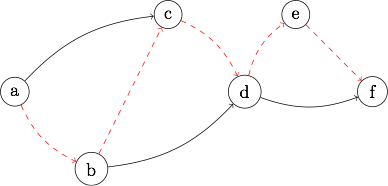
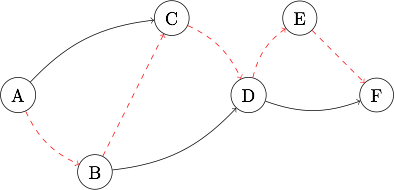
updated site

diff --git a/algorithms/path.html b/algorithms/path.html
@@ -12,17 +12,8 @@ given a weighted directed graph and source vertex.</li>
 
 <h3 id="bellman-ford">Bellman-Ford</h3>
 
-<p>The path state is represented as a case class, holding <em>distances</em> and <em>predecessors</em>.</p>
-<div class="language-scala highlighter-rouge"><pre class="highlight"><code>  <span class="k">case</span> <span class="k">class</span> <span class="nc">PathState</span><span class="o">[</span><span class="kt">A</span><span class="o">](</span><span class="n">distances</span><span class="k">:</span> <span class="kt">Map</span><span class="o">[</span><span class="kt">A</span>,<span class="kt">Double</span><span class="o">],</span> <span class="n">predecessors</span><span class="k">:</span> <span class="kt">Map</span><span class="o">[</span><span class="kt">A</span>,<span class="kt">A</span><span class="o">])</span>
+<p>The path state is a case class of the <em>distances</em> and <em>predecessors</em>.</p>
 
-  <span class="k">object</span> <span class="nc">PathState</span> <span class="o">{</span>
-    <span class="k">def</span> <span class="n">apply</span><span class="o">[</span><span class="kt">A</span><span class="o">](</span><span class="n">source</span><span class="k">:</span> <span class="kt">A</span><span class="o">)</span><span class="k">:</span> <span class="kt">PathState</span><span class="o">[</span><span class="kt">A</span><span class="o">]</span> <span class="k">=</span>
-      <span class="nc">PathState</span><span class="o">(</span><span class="nc">Map</span><span class="o">.</span><span class="n">empty</span><span class="o">[</span><span class="kt">A</span>,<span class="kt">Double</span><span class="o">].</span><span class="n">updated</span><span class="o">(</span><span class="n">source</span><span class="o">,</span><span class="mf">0.0</span><span class="o">),</span><span class="nc">Map</span><span class="o">.</span><span class="n">empty</span><span class="o">[</span><span class="kt">A</span>,<span class="kt">A</span><span class="o">])</span>
-  <span class="o">}</span>
-</code></pre>
-</div>
-<p>The algorithm is implemented (with <em>N</em> iterations). <em>note</em> I think almost all 
-use cases would allow us to stop once</p>
 <div class="language-scala highlighter-rouge"><pre class="highlight"><code>  <span class="k">def</span> <span class="n">bellmanFord</span><span class="o">[</span><span class="kt">A</span><span class="o">](</span><span class="n">g</span><span class="k">:</span> <span class="kt">WeightedDigraph</span><span class="o">[</span><span class="kt">A</span><span class="o">],</span> <span class="n">source</span><span class="k">:</span> <span class="kt">A</span><span class="o">)</span><span class="k">:</span> <span class="kt">PathState</span><span class="o">[</span><span class="kt">A</span><span class="o">]</span> <span class="k">=</span> <span class="o">{</span>
 
     <span class="k">def</span> <span class="n">relaxEdge</span><span class="o">(</span><span class="n">state</span><span class="k">:</span> <span class="kt">PathState</span><span class="o">[</span><span class="kt">A</span><span class="o">],</span> <span class="n">e</span><span class="k">:</span> <span class="kt">WeightedEdge</span><span class="o">[</span><span class="kt">A</span><span class="o">])</span><span class="k">:</span> <span class="kt">PathState</span><span class="o">[</span><span class="kt">A</span><span class="o">]</span> <span class="k">=</span>
@@ -91,7 +82,7 @@ use cases would allow us to stop once</p>
 <span class="n">xs</span><span class="k">:</span> <span class="kt">scala.collection.immutable.Stream</span><span class="o">[</span><span class="kt">tiki.WeightedEdge</span><span class="o">[</span><span class="kt">Char</span><span class="o">]]</span> <span class="k">=</span> <span class="nc">Stream</span><span class="o">(</span><span class="n">a</span> <span class="o">--&gt;</span> <span class="n">b</span> <span class="o">:#</span> <span class="o">-</span><span class="mf">1.0</span><span class="o">,</span> <span class="o">?)</span>
 
 <span class="n">scala</span><span class="o">&gt;</span> <span class="k">val</span> <span class="n">adjacencyList</span> <span class="k">=</span> <span class="nc">AdjacencyList</span><span class="o">(</span><span class="n">xs</span><span class="o">)</span>
-<span class="n">adjacencyList</span><span class="k">:</span> <span class="kt">tiki.AdjacencyList</span><span class="o">[</span><span class="kt">Char</span><span class="o">]</span> <span class="k">=</span> <span class="n">tiki</span><span class="o">.</span><span class="nc">AdjacencyList</span><span class="k">@</span><span class="mf">40d</span><span class="n">fcecd</span>
+<span class="n">adjacencyList</span><span class="k">:</span> <span class="kt">tiki.AdjacencyList</span><span class="o">[</span><span class="kt">Char</span><span class="o">]</span> <span class="k">=</span> <span class="n">tiki</span><span class="o">.</span><span class="nc">AdjacencyList</span><span class="k">@</span><span class="mi">2422</span><span class="n">b4da</span>
 
 <span class="n">scala</span><span class="o">&gt;</span> <span class="k">val</span> <span class="n">digraph</span> <span class="k">=</span> <span class="k">new</span> <span class="nc">WeightedDigraph</span><span class="o">[</span><span class="kt">Char</span><span class="o">]</span> <span class="o">{</span>
      <span class="o">|</span>   <span class="cm">/* Use adjacency list for basic digraph implementation. */</span>
@@ -102,7 +93,7 @@ use cases would allow us to stop once</p>
      <span class="o">|</span>   <span class="cm">/* adjacency doesn't store edges. */</span>
      <span class="o">|</span>   <span class="k">def</span> <span class="n">edges</span> <span class="k">=</span> <span class="n">xs</span>
      <span class="o">|</span> <span class="o">}</span>
-<span class="n">digraph</span><span class="k">:</span> <span class="kt">tiki.WeightedDigraph</span><span class="o">[</span><span class="kt">tiki.Predef.Char</span><span class="o">]</span> <span class="k">=</span> <span class="nc">$anon$1</span><span class="k">@</span><span class="mf">248f</span><span class="n">e195</span>
+<span class="n">digraph</span><span class="k">:</span> <span class="kt">tiki.WeightedDigraph</span><span class="o">[</span><span class="kt">tiki.Predef.Char</span><span class="o">]</span> <span class="k">=</span> <span class="nc">$anon$1</span><span class="k">@</span><span class="mi">5</span><span class="n">badd49a</span>
 
 <span class="n">scala</span><span class="o">&gt;</span> <span class="k">val</span> <span class="n">cycle</span> <span class="k">=</span> <span class="n">negativeCycle</span><span class="o">(</span><span class="n">digraph</span><span class="o">,</span><span class="sc">'a'</span><span class="o">)</span>
 <span class="n">cycle</span><span class="k">:</span> <span class="kt">tiki.Predef.Option</span><span class="o">[</span><span class="kt">tiki.Predef.List</span><span class="o">[</span><span class="kt">Char</span><span class="o">]]</span> <span class="k">=</span> <span class="nc">Some</span><span class="o">(</span><span class="nc">List</span><span class="o">(</span><span class="n">e</span><span class="o">,</span> <span class="n">d</span><span class="o">,</span> <span class="n">b</span><span class="o">))</span>
@@ -175,7 +166,7 @@ of the least possible weight that connects any two trees in the forest.
      <span class="o">|</span>   <span class="k">override</span> <span class="k">def</span> <span class="n">edges</span><span class="k">:</span> <span class="kt">Stream</span><span class="o">[</span><span class="kt">WeightedEdge</span><span class="o">[</span><span class="kt">Char</span><span class="o">]]</span> <span class="k">=</span> <span class="n">xs</span>
      <span class="o">|</span>   <span class="k">override</span> <span class="k">def</span> <span class="n">vertices</span><span class="k">:</span> <span class="kt">Stream</span><span class="o">[</span><span class="kt">Char</span><span class="o">]</span> <span class="k">=</span> <span class="nc">Stream</span><span class="o">(</span><span class="sc">'a'</span><span class="o">,</span> <span class="sc">'b'</span><span class="o">,</span> <span class="sc">'c'</span><span class="o">,</span> <span class="sc">'d'</span><span class="o">,</span> <span class="sc">'e'</span><span class="o">,</span> <span class="sc">'f'</span><span class="o">,</span> <span class="sc">'g'</span><span class="o">)</span>
      <span class="o">|</span> <span class="o">}</span>
-<span class="n">graph</span><span class="k">:</span> <span class="kt">tiki.WeightedUndirectedGraph</span><span class="o">[</span><span class="kt">tiki.Predef.Char</span><span class="o">]</span> <span class="k">=</span> <span class="nc">$anon$1</span><span class="k">@</span><span class="mi">4</span><span class="n">e1f4f3c</span>
+<span class="n">graph</span><span class="k">:</span> <span class="kt">tiki.WeightedUndirectedGraph</span><span class="o">[</span><span class="kt">tiki.Predef.Char</span><span class="o">]</span> <span class="k">=</span> <span class="nc">$anon$1</span><span class="k">@</span><span class="mi">4684305</span><span class="n">c</span>
 
 <span class="n">scala</span><span class="o">&gt;</span> <span class="k">val</span> <span class="n">expected</span> <span class="k">=</span> <span class="nc">Set</span><span class="o">(</span>
      <span class="o">|</span>   <span class="sc">'a'</span> <span class="o">--&gt;</span> <span class="sc">'d'</span> <span class="o">:#</span> <span class="mf">5.0</span><span class="o">,</span>

diff --git a/datastructures/disjointset.html b/datastructures/disjointset.html
@@ -23,7 +23,7 @@ are used to determine if two elements belong to the same partition.</li>
 <span class="k">import</span> <span class="nn">tiki.Predef._</span>
 
 <span class="n">scala</span><span class="o">&gt;</span> <span class="k">val</span> <span class="n">disjoint</span> <span class="k">=</span> <span class="nc">DisjointSet</span><span class="o">(</span><span class="nc">Set</span><span class="o">[</span><span class="kt">Int</span><span class="o">](</span><span class="mi">1</span><span class="o">,</span><span class="mi">2</span><span class="o">))</span>
-<span class="n">disjoint</span><span class="k">:</span> <span class="kt">tiki.DisjointSet</span><span class="o">[</span><span class="kt">tiki.Predef.Int</span><span class="o">]</span> <span class="k">=</span> <span class="n">tiki</span><span class="o">.</span><span class="nc">DisjointSet</span><span class="k">@</span><span class="mi">4446</span><span class="n">abd7</span>
+<span class="n">disjoint</span><span class="k">:</span> <span class="kt">tiki.DisjointSet</span><span class="o">[</span><span class="kt">tiki.Predef.Int</span><span class="o">]</span> <span class="k">=</span> <span class="n">tiki</span><span class="o">.</span><span class="nc">DisjointSet</span><span class="k">@</span><span class="mi">798663</span><span class="n">e4</span>
 </code></pre>
 </div>
 
@@ -38,7 +38,7 @@ are used to determine if two elements belong to the same partition.</li>
 <span class="k">import</span> <span class="nn">tiki.Predef._</span>
 
 <span class="n">scala</span><span class="o">&gt;</span> <span class="k">val</span> <span class="n">disjoint</span> <span class="k">=</span> <span class="nc">DisjointSet</span><span class="o">(</span><span class="nc">Set</span><span class="o">[</span><span class="kt">Int</span><span class="o">](</span><span class="mi">1</span><span class="o">,</span><span class="mi">2</span><span class="o">))</span>
-<span class="n">disjoint</span><span class="k">:</span> <span class="kt">tiki.DisjointSet</span><span class="o">[</span><span class="kt">tiki.Predef.Int</span><span class="o">]</span> <span class="k">=</span> <span class="n">tiki</span><span class="o">.</span><span class="nc">DisjointSet</span><span class="k">@</span><span class="mf">501d</span><span class="mi">9394</span>
+<span class="n">disjoint</span><span class="k">:</span> <span class="kt">tiki.DisjointSet</span><span class="o">[</span><span class="kt">tiki.Predef.Int</span><span class="o">]</span> <span class="k">=</span> <span class="n">tiki</span><span class="o">.</span><span class="nc">DisjointSet</span><span class="k">@</span><span class="mi">5</span><span class="n">c2bca09</span>
 
 <span class="n">scala</span><span class="o">&gt;</span> <span class="n">disjoint</span><span class="o">.</span><span class="n">find</span><span class="o">(</span><span class="mi">1</span><span class="o">)</span>
 <span class="n">res0</span><span class="k">:</span> <span class="kt">tiki.Predef.Option</span><span class="o">[</span><span class="kt">tiki.Predef.Int</span><span class="o">]</span> <span class="k">=</span> <span class="nc">Some</span><span class="o">(</span><span class="mi">1</span><span class="o">)</span>
@@ -56,10 +56,10 @@ are used to determine if two elements belong to the same partition.</li>
 <span class="k">import</span> <span class="nn">tiki.Predef._</span>
 
 <span class="n">scala</span><span class="o">&gt;</span> <span class="k">val</span> <span class="n">disjoint</span> <span class="k">=</span> <span class="nc">DisjointSet</span><span class="o">(</span><span class="nc">Set</span><span class="o">[</span><span class="kt">Int</span><span class="o">](</span><span class="mi">1</span><span class="o">,</span><span class="mi">2</span><span class="o">))</span>
-<span class="n">disjoint</span><span class="k">:</span> <span class="kt">tiki.DisjointSet</span><span class="o">[</span><span class="kt">tiki.Predef.Int</span><span class="o">]</span> <span class="k">=</span> <span class="n">tiki</span><span class="o">.</span><span class="nc">DisjointSet</span><span class="k">@</span><span class="mi">5</span><span class="n">bc777ea</span>
+<span class="n">disjoint</span><span class="k">:</span> <span class="kt">tiki.DisjointSet</span><span class="o">[</span><span class="kt">tiki.Predef.Int</span><span class="o">]</span> <span class="k">=</span> <span class="n">tiki</span><span class="o">.</span><span class="nc">DisjointSet</span><span class="k">@</span><span class="mf">3d</span><span class="mi">331246</span>
 
 <span class="n">scala</span><span class="o">&gt;</span> <span class="n">disjoint</span><span class="o">.</span><span class="n">union</span><span class="o">(</span><span class="mi">1</span><span class="o">,</span><span class="mi">2</span><span class="o">)</span>
-<span class="n">res1</span><span class="k">:</span> <span class="kt">tiki.Predef.Option</span><span class="o">[</span><span class="kt">tiki.DisjointSet</span><span class="o">[</span><span class="kt">tiki.Predef.Int</span><span class="o">]]</span> <span class="k">=</span> <span class="nc">Some</span><span class="o">(</span><span class="n">tiki</span><span class="o">.</span><span class="nc">DisjointSet</span><span class="k">@</span><span class="mi">41</span><span class="n">ef8350</span><span class="o">)</span>
+<span class="n">res1</span><span class="k">:</span> <span class="kt">tiki.Predef.Option</span><span class="o">[</span><span class="kt">tiki.DisjointSet</span><span class="o">[</span><span class="kt">tiki.Predef.Int</span><span class="o">]]</span> <span class="k">=</span> <span class="nc">Some</span><span class="o">(</span><span class="n">tiki</span><span class="o">.</span><span class="nc">DisjointSet</span><span class="k">@</span><span class="mi">5</span><span class="n">ba6adbb</span><span class="o">)</span>
 </code></pre>
 </div>
 </section></div></div></div></div><script src="https://cdnjs.cloudflare.com/ajax/libs/jquery/1.11.3/jquery.min.js"></script><script src="https://cdnjs.cloudflare.com/ajax/libs/twitter-bootstrap/3.3.7/js/bootstrap.min.js"></script><script src="/tiki/highlight/highlight.pack.js"></script><script>hljs.configure({

diff --git a/algorithms/sort.html b/algorithms/sort.html
@@ -63,7 +63,7 @@ no cycles. That is, we have a directed acyclic graph.</p>
 <span class="n">xs</span><span class="k">:</span> <span class="kt">scala.collection.immutable.Stream</span><span class="o">[</span><span class="kt">tiki.Edge</span><span class="o">[</span><span class="kt">Char</span><span class="o">]]</span> <span class="k">=</span> <span class="nc">Stream</span><span class="o">(</span><span class="n">a</span> <span class="o">--&gt;</span> <span class="n">b</span><span class="o">,</span> <span class="o">?)</span>
 
 <span class="n">scala</span><span class="o">&gt;</span> <span class="k">val</span> <span class="n">adjacencyList</span> <span class="k">=</span> <span class="nc">AdjacencyList</span><span class="o">(</span><span class="n">xs</span><span class="o">)</span>
-<span class="n">adjacencyList</span><span class="k">:</span> <span class="kt">tiki.AdjacencyList</span><span class="o">[</span><span class="kt">Char</span><span class="o">]</span> <span class="k">=</span> <span class="n">tiki</span><span class="o">.</span><span class="nc">AdjacencyList</span><span class="k">@</span><span class="mf">296583f</span><span class="n">e</span>
+<span class="n">adjacencyList</span><span class="k">:</span> <span class="kt">tiki.AdjacencyList</span><span class="o">[</span><span class="kt">Char</span><span class="o">]</span> <span class="k">=</span> <span class="n">tiki</span><span class="o">.</span><span class="nc">AdjacencyList</span><span class="k">@</span><span class="mf">77749f</span><span class="mi">5</span><span class="n">c</span>
 
 <span class="n">scala</span><span class="o">&gt;</span> <span class="k">val</span> <span class="n">digraph</span> <span class="k">=</span> <span class="k">new</span> <span class="nc">Digraph</span><span class="o">[</span><span class="kt">Char</span><span class="o">]</span> <span class="o">{</span>
      <span class="o">|</span>   <span class="k">def</span> <span class="n">contains</span><span class="o">(</span><span class="n">v</span><span class="k">:</span> <span class="kt">Char</span><span class="o">)</span> <span class="k">=</span> <span class="n">adjacencyList</span><span class="o">.</span><span class="n">contains</span><span class="o">(</span><span class="n">v</span><span class="o">)</span>
@@ -72,7 +72,7 @@ no cycles. That is, we have a directed acyclic graph.</p>
      <span class="o">|</span>   <span class="k">def</span> <span class="n">predecessors</span><span class="o">(</span><span class="n">v</span><span class="k">:</span> <span class="kt">Char</span><span class="o">)</span> <span class="k">=</span> <span class="n">adjacencyList</span><span class="o">.</span><span class="n">predecessors</span><span class="o">(</span><span class="n">v</span><span class="o">)</span>
      <span class="o">|</span>   <span class="k">def</span> <span class="n">edges</span><span class="k">:</span> <span class="kt">Stream</span><span class="o">[</span><span class="kt">Edge</span><span class="o">[</span><span class="kt">Char</span><span class="o">]]</span> <span class="k">=</span> <span class="n">xs</span>
      <span class="o">|</span> <span class="o">}</span>
-<span class="n">digraph</span><span class="k">:</span> <span class="kt">tiki.Digraph</span><span class="o">[</span><span class="kt">tiki.Predef.Char</span><span class="o">]{</span><span class="k">def</span> <span class="n">edges</span><span class="k">:</span> <span class="kt">tiki.Predef.Stream</span><span class="o">[</span><span class="kt">tiki.Edge</span><span class="o">[</span><span class="kt">tiki.Predef.Char</span><span class="o">]]}</span> <span class="k">=</span> <span class="nc">$anon$1</span><span class="k">@</span><span class="mf">72f</span><span class="n">f3d89</span>
+<span class="n">digraph</span><span class="k">:</span> <span class="kt">tiki.Digraph</span><span class="o">[</span><span class="kt">tiki.Predef.Char</span><span class="o">]{</span><span class="k">def</span> <span class="n">edges</span><span class="k">:</span> <span class="kt">tiki.Predef.Stream</span><span class="o">[</span><span class="kt">tiki.Edge</span><span class="o">[</span><span class="kt">tiki.Predef.Char</span><span class="o">]]}</span> <span class="k">=</span> <span class="nc">$anon$1</span><span class="k">@</span><span class="mi">5</span><span class="n">a96fb1b</span>
 
 <span class="n">scala</span><span class="o">&gt;</span> <span class="k">val</span> <span class="n">sorted</span> <span class="k">=</span> <span class="n">tsort</span><span class="o">(</span><span class="n">digraph</span><span class="o">).</span><span class="n">getOrElse</span><span class="o">(</span><span class="nc">Stream</span><span class="o">.</span><span class="n">empty</span><span class="o">)</span>
 <span class="n">sorted</span><span class="k">:</span> <span class="kt">tiki.Predef.Stream</span><span class="o">[</span><span class="kt">tiki.Predef.Char</span><span class="o">]</span> <span class="k">=</span> <span class="nc">Stream</span><span class="o">(</span><span class="n">a</span><span class="o">,</span> <span class="o">?)</span>

diff --git a/datastructures/adjacencylist.html b/datastructures/adjacencylist.html
@@ -3,6 +3,8 @@
 <p><code class="highlighter-rouge">AdjacencyList</code> associates each vertex in the graph with the collection of its neighboring vertices.
 Internally this is represented as a pair of maps (the graph and its reverse).</p>
 
+<p><img src="https://raw.github.com/lewismj/tiki/master/docs/src/main/resources/microsite/img/adjacencyList.png" alt="graph" /></p>
+
 <p>The functions provided are:</p>
 
 <ul>
@@ -28,7 +30,7 @@ Internally this is represented as a pair of maps (the graph and its reverse).</p
 <span class="k">import</span> <span class="nn">tiki.implicits._</span>
 
 <span class="n">scala</span><span class="o">&gt;</span> <span class="k">val</span> <span class="n">xs</span> <span class="k">=</span> <span class="nc">AdjacencyList</span><span class="o">(</span><span class="nc">Stream</span><span class="o">(</span><span class="mi">1</span> <span class="o">--&gt;</span> <span class="mi">2</span><span class="o">,</span> <span class="mi">1</span> <span class="o">--&gt;</span> <span class="mi">3</span><span class="o">,</span> <span class="mi">2</span> <span class="o">--&gt;</span> <span class="mi">3</span><span class="o">))</span>
-<span class="n">xs</span><span class="k">:</span> <span class="kt">tiki.AdjacencyList</span><span class="o">[</span><span class="kt">Int</span><span class="o">]</span> <span class="k">=</span> <span class="n">tiki</span><span class="o">.</span><span class="nc">AdjacencyList</span><span class="k">@</span><span class="mf">2294558d</span>
+<span class="n">xs</span><span class="k">:</span> <span class="kt">tiki.AdjacencyList</span><span class="o">[</span><span class="kt">Int</span><span class="o">]</span> <span class="k">=</span> <span class="n">tiki</span><span class="o">.</span><span class="nc">AdjacencyList</span><span class="k">@</span><span class="mi">664</span><span class="n">cee9e</span>
 
 <span class="n">scala</span><span class="o">&gt;</span> <span class="k">val</span> <span class="n">ys</span> <span class="k">=</span> <span class="n">xs</span><span class="o">.</span><span class="n">successors</span><span class="o">(</span><span class="mi">1</span><span class="o">)</span>
 <span class="n">ys</span><span class="k">:</span> <span class="kt">tiki.Predef.Set</span><span class="o">[</span><span class="kt">Int</span><span class="o">]</span> <span class="k">=</span> <span class="nc">Set</span><span class="o">(</span><span class="mi">2</span><span class="o">,</span> <span class="mi">3</span><span class="o">)</span>
@@ -47,7 +49,7 @@ Internally this is represented as a pair of maps (the graph and its reverse).</p
 <span class="k">import</span> <span class="nn">tiki.implicits._</span>
 
 <span class="n">scala</span><span class="o">&gt;</span> <span class="k">val</span> <span class="n">xs</span> <span class="k">=</span> <span class="nc">AdjacencyList</span><span class="o">(</span><span class="nc">Stream</span><span class="o">(</span><span class="mi">1</span> <span class="o">--&gt;</span> <span class="mi">2</span><span class="o">,</span> <span class="mi">1</span> <span class="o">--&gt;</span> <span class="mi">3</span><span class="o">,</span> <span class="mi">2</span> <span class="o">--&gt;</span> <span class="mi">3</span><span class="o">))</span>
-<span class="n">xs</span><span class="k">:</span> <span class="kt">tiki.AdjacencyList</span><span class="o">[</span><span class="kt">Int</span><span class="o">]</span> <span class="k">=</span> <span class="n">tiki</span><span class="o">.</span><span class="nc">AdjacencyList</span><span class="k">@</span><span class="mf">14f4d</span><span class="mi">6</span><span class="n">e5</span>
+<span class="n">xs</span><span class="k">:</span> <span class="kt">tiki.AdjacencyList</span><span class="o">[</span><span class="kt">Int</span><span class="o">]</span> <span class="k">=</span> <span class="n">tiki</span><span class="o">.</span><span class="nc">AdjacencyList</span><span class="k">@</span><span class="mf">49d7d</span><span class="mi">55</span>
 
 <span class="n">scala</span><span class="o">&gt;</span> <span class="k">val</span> <span class="n">ys</span> <span class="k">=</span> <span class="n">xs</span><span class="o">.</span><span class="n">predecessors</span><span class="o">(</span><span class="mi">3</span><span class="o">)</span>
 <span class="n">ys</span><span class="k">:</span> <span class="kt">tiki.Predef.Set</span><span class="o">[</span><span class="kt">Int</span><span class="o">]</span> <span class="k">=</span> <span class="nc">Set</span><span class="o">(</span><span class="mi">1</span><span class="o">,</span> <span class="mi">2</span><span class="o">)</span>

diff --git a/algorithms/traversal.html b/algorithms/traversal.html
@@ -73,7 +73,7 @@ A vertex may be visited more than once in a traversal, most of the time we want 
 <span class="n">edges</span><span class="k">:</span> <span class="kt">scala.collection.immutable.Stream</span><span class="o">[</span><span class="kt">tiki.Edge</span><span class="o">[</span><span class="kt">Char</span><span class="o">]]</span> <span class="k">=</span> <span class="nc">Stream</span><span class="o">(</span><span class="n">a</span> <span class="o">--&gt;</span> <span class="n">b</span><span class="o">,</span> <span class="o">?)</span>
 
 <span class="n">scala</span><span class="o">&gt;</span> <span class="k">val</span> <span class="n">adj</span> <span class="k">=</span> <span class="nc">AdjacencyList</span><span class="o">(</span><span class="n">edges</span><span class="o">)</span>
-<span class="n">adj</span><span class="k">:</span> <span class="kt">tiki.AdjacencyList</span><span class="o">[</span><span class="kt">Char</span><span class="o">]</span> <span class="k">=</span> <span class="n">tiki</span><span class="o">.</span><span class="nc">AdjacencyList</span><span class="k">@</span><span class="mi">52493</span><span class="n">b83</span>
+<span class="n">adj</span><span class="k">:</span> <span class="kt">tiki.AdjacencyList</span><span class="o">[</span><span class="kt">Char</span><span class="o">]</span> <span class="k">=</span> <span class="n">tiki</span><span class="o">.</span><span class="nc">AdjacencyList</span><span class="k">@</span><span class="mf">4097d</span><span class="mi">02</span><span class="n">a</span>
 
 <span class="n">scala</span><span class="o">&gt;</span> <span class="k">val</span> <span class="n">dfsSearch</span> <span class="k">=</span> <span class="n">dfs</span><span class="o">(</span><span class="n">adj</span><span class="o">,</span> <span class="sc">'a'</span><span class="o">)</span>
 <span class="n">dfsSearch</span><span class="k">:</span> <span class="kt">tiki.Predef.Stream</span><span class="o">[</span><span class="kt">Char</span><span class="o">]</span> <span class="k">=</span> <span class="nc">Stream</span><span class="o">(</span><span class="n">a</span><span class="o">,</span> <span class="o">?)</span>
@@ -106,7 +106,7 @@ A vertex may be visited more than once in a traversal, most of the time we want 
 <span class="n">edges</span><span class="k">:</span> <span class="kt">scala.collection.immutable.Stream</span><span class="o">[</span><span class="kt">tiki.Edge</span><span class="o">[</span><span class="kt">Char</span><span class="o">]]</span> <span class="k">=</span> <span class="nc">Stream</span><span class="o">(</span><span class="n">a</span> <span class="o">--&gt;</span> <span class="n">b</span><span class="o">,</span> <span class="o">?)</span>
 
 <span class="n">scala</span><span class="o">&gt;</span> <span class="k">val</span> <span class="n">adj</span> <span class="k">=</span> <span class="nc">AdjacencyList</span><span class="o">(</span><span class="n">edges</span><span class="o">)</span>
-<span class="n">adj</span><span class="k">:</span> <span class="kt">tiki.AdjacencyList</span><span class="o">[</span><span class="kt">Char</span><span class="o">]</span> <span class="k">=</span> <span class="n">tiki</span><span class="o">.</span><span class="nc">AdjacencyList</span><span class="k">@</span><span class="mi">5601</span><span class="n">ab90</span>
+<span class="n">adj</span><span class="k">:</span> <span class="kt">tiki.AdjacencyList</span><span class="o">[</span><span class="kt">Char</span><span class="o">]</span> <span class="k">=</span> <span class="n">tiki</span><span class="o">.</span><span class="nc">AdjacencyList</span><span class="k">@</span><span class="mi">2</span><span class="n">efa1887</span>
 
 <span class="n">scala</span><span class="o">&gt;</span> <span class="k">val</span> <span class="n">bfsSearch</span> <span class="k">=</span> <span class="n">bfs</span><span class="o">(</span><span class="n">adj</span><span class="o">,</span> <span class="sc">'a'</span><span class="o">)</span>
 <span class="n">bfsSearch</span><span class="k">:</span> <span class="kt">tiki.Predef.Stream</span><span class="o">[</span><span class="kt">Char</span><span class="o">]</span> <span class="k">=</span> <span class="nc">Stream</span><span class="o">(</span><span class="n">a</span><span class="o">,</span> <span class="o">?)</span>

diff --git a/datastructures/graph.html b/datastructures/graph.html
@@ -80,7 +80,7 @@ Sometimes this may be the correct choice, though not always.</p>
 <span class="n">xs</span><span class="k">:</span> <span class="kt">scala.collection.immutable.Stream</span><span class="o">[</span><span class="kt">tiki.WeightedEdge</span><span class="o">[</span><span class="kt">Char</span><span class="o">]]</span> <span class="k">=</span> <span class="nc">Stream</span><span class="o">(</span><span class="n">A</span> <span class="o">--&gt;</span> <span class="n">B</span> <span class="o">:#</span> <span class="o">-</span><span class="mf">1.0</span><span class="o">,</span> <span class="o">?)</span>
 
 <span class="n">scala</span><span class="o">&gt;</span> <span class="k">val</span> <span class="n">adjacencyList</span> <span class="k">=</span> <span class="nc">AdjacencyList</span><span class="o">(</span><span class="n">xs</span><span class="o">)</span>
-<span class="n">adjacencyList</span><span class="k">:</span> <span class="kt">tiki.AdjacencyList</span><span class="o">[</span><span class="kt">Char</span><span class="o">]</span> <span class="k">=</span> <span class="n">tiki</span><span class="o">.</span><span class="nc">AdjacencyList</span><span class="k">@</span><span class="mi">6</span><span class="n">b10b8b4</span>
+<span class="n">adjacencyList</span><span class="k">:</span> <span class="kt">tiki.AdjacencyList</span><span class="o">[</span><span class="kt">Char</span><span class="o">]</span> <span class="k">=</span> <span class="n">tiki</span><span class="o">.</span><span class="nc">AdjacencyList</span><span class="k">@</span><span class="mi">62</span><span class="n">a7ae20</span>
 
 <span class="n">scala</span><span class="o">&gt;</span> <span class="k">val</span> <span class="n">digraph</span> <span class="k">=</span> <span class="k">new</span> <span class="nc">WeightedDigraph</span><span class="o">[</span><span class="kt">Char</span><span class="o">]</span> <span class="o">{</span>
      <span class="o">|</span>   <span class="k">def</span> <span class="n">contains</span><span class="o">(</span><span class="n">v</span><span class="k">:</span> <span class="kt">Char</span><span class="o">)</span> <span class="k">=</span> <span class="n">adjacencyList</span><span class="o">.</span><span class="n">contains</span><span class="o">(</span><span class="n">v</span><span class="o">)</span>
@@ -90,7 +90,7 @@ Sometimes this may be the correct choice, though not always.</p>
      <span class="o">|</span> 
      <span class="o">|</span>   <span class="k">def</span> <span class="n">edges</span><span class="k">:</span> <span class="kt">Stream</span><span class="o">[</span><span class="kt">WeightedEdge</span><span class="o">[</span><span class="kt">Char</span><span class="o">]]</span> <span class="k">=</span> <span class="n">xs</span>
      <span class="o">|</span> <span class="o">}</span>
-<span class="n">digraph</span><span class="k">:</span> <span class="kt">tiki.WeightedDigraph</span><span class="o">[</span><span class="kt">tiki.Predef.Char</span><span class="o">]</span> <span class="k">=</span> <span class="nc">$anon$1</span><span class="k">@</span><span class="mi">615</span><span class="n">e6dbd</span>
+<span class="n">digraph</span><span class="k">:</span> <span class="kt">tiki.WeightedDigraph</span><span class="o">[</span><span class="kt">tiki.Predef.Char</span><span class="o">]</span> <span class="k">=</span> <span class="nc">$anon$1</span><span class="k">@</span><span class="mi">3</span><span class="n">bed786b</span>
 </code></pre>
 </div>
 
